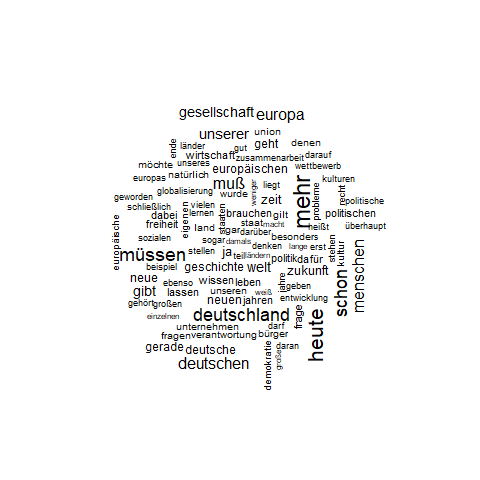
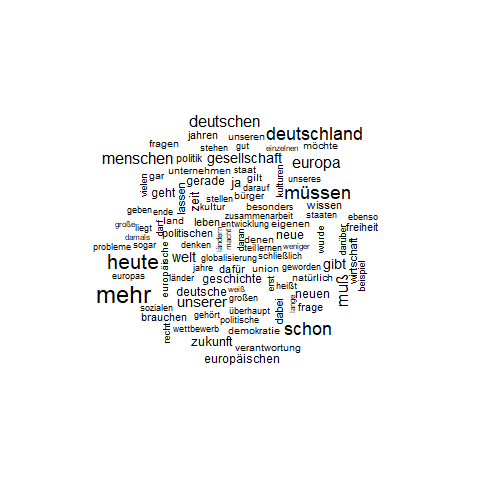
Uploading created pngs

Changed region(s): [[0.1875, 0.2188, 0.8125, 0.8125]]

diff --git a/Projects/neophilology/German_language.md b/Projects/neophilology/German_language.md
@@ -1,94 +1,32 @@
-```         
-#install.packages("Rtools")
-#install.packages("stopwords")
-#install.packages("wordcloud")
-#install.packages("tm")
-options(encoding="utf8")
-library('stats')
-library('tidyverse')
+    ## ── Attaching core tidyverse packages ──────────────────────── tidyverse 2.0.0 ──
+    ## ✔ dplyr     1.1.2     ✔ readr     2.1.4
+    ## ✔ forcats   1.0.0     ✔ stringr   1.5.0
+    ## ✔ ggplot2   3.4.2     ✔ tibble    3.2.1
+    ## ✔ lubridate 1.9.2     ✔ tidyr     1.3.0
+    ## ✔ purrr     1.0.1     
+    ## ── Conflicts ────────────────────────────────────────── tidyverse_conflicts() ──
+    ## ✖ dplyr::filter() masks stats::filter()
+    ## ✖ dplyr::lag()    masks stats::lag()
+    ## ℹ Use the conflicted package (<http://conflicted.r-lib.org/>) to force all conflicts to become errors
 
-## ── Attaching core tidyverse packages ──────────────────────── tidyverse 2.0.0 ──
-## ✔ dplyr     1.1.2     ✔ readr     2.1.4
-## ✔ forcats   1.0.0     ✔ stringr   1.5.0
-## ✔ ggplot2   3.4.2     ✔ tibble    3.2.1
-## ✔ lubridate 1.9.2     ✔ tidyr     1.3.0
-## ✔ purrr     1.0.1     
-## ── Conflicts ────────────────────────────────────────── tidyverse_conflicts() ──
-## ✖ dplyr::filter() masks stats::filter()
-## ✖ dplyr::lag()    masks stats::lag()
-## ℹ Use the conflicted package (<http://conflicted.r-lib.org/>) to force all conflicts to become errors
-```
+First, the data is imported. Here, I can use a subset of data, which
+only includes the speeches of one german president, Roman Herzog.
 
-Using the predone .csv table, since I can't bring myself to do work that already has be done.
+A frequency diagram and a word cloud would be sufficient to paint a
+bird’s eye view of the topics discussed in the aggregated speeches
 
-Removing the noise: filtering out stopwords and words and characters without content
+After tidying the data, to only include somewhat relevant words, a
+wordcloud is created. here, the words are arranged to fit smuggly
+together, while the size should reflect their frequency
 
-```         
-library("stopwords")
-stopwords_de<-c(stopwords::stopwords("de", source = "marimo"),stopwords::stopwords("de", source = "snowball")) %>% unique()
+    ## Lade nötiges Paket: RColorBrewer
 
-#set all words to lowercase to not have duplicates because of the word sometimes appearing at the start of the sentence
-speech_herzog[,1]<-lapply(speech_herzog[,1],str_to_lower)
+    ## png 
+    ##   2
 
-#remove punctuation from the set of words
-Punctuation_pos<-!lapply(speech_herzog[,1],str_detect,pattern="[[:punct:]]") %>% data.frame()
-#Remove all 231 stopwords given in the snowball list
-Stopwords_pos<-!lapply(speech_herzog[,1], '%in%', table=stopwords_de) %>% data.frame()
-Include_pos<-apply(cbind(Punctuation_pos,Stopwords_pos), 1L,all)
-
-words_freq<-speech_herzog[Include_pos,1] %>% table() %>% data.frame()
-colnames(words_freq)<-c("words","freq")
-```
-
-A frequency diagram and a word cloud would be sufficient to paint a bird's eye view of the topics discussed in the aggregated speeches
-
-plotting a wordcloud
-
-```         
-library("wordcloud")
-
-## Lade nötiges Paket: RColorBrewer
-
-wordcloud(words_freq$words,words_freq$freq, max.words = 100,scale=c(2, .5))
-```
-
-![](German_language_files/figure-markdown_strict/unnamed-chunk-3-1.png)
-
-A frequency Diagramm:
-
-```         
-top_50<-words_freq %>% arrange(desc(freq)) %>% head(50)
-top_50$pos<-0
-top_50$freq<-top_50$freq*1.1
-
-top_freq<-max(top_50$freq)
-
-sum<-0
-add_offset<-0
-for (i in 1:50){
-  sum<-sum+0.17*top_50$freq[i]/str_length(top_50$words[i])+add_offset
-  top_50$pos[i]<-sum
-  #add_offset<-min(200/str_length(top_50$words[i])**2.4,top_freq/10)
-  add_offset<-max(min(top_freq/(4.65*(str_length(top_50$words[i])**2.4)),top_freq/28),top_freq/156)
-
-}
-
-largest_val<-max(top_50$pos)
-smallest_val<-min(top_50$pos)
-#color_fd<-rep(c("darkblue","grey5"),25)
-color_fd<-rep(c("red2","purple2","blue","green4","gold2"),10)
-
-ggplot(top_50, aes(y=freq, x=pos))+
-  #geom_point(show.legend = FALSE,color = color_fd,aes( size=freq*0.005))+
-  theme_classic()+
-  theme(plot.title=element_text(size=24),axis.text=element_text(size=16),axis.text.x=element_blank(),axis.ticks.x=element_blank(),axis.title=element_text(size=14,face="bold"))+
-geom_text(show.legend = FALSE,aes(label=words, angle=90,family="mono",  hjust="top", vjust="middle"), color = color_fd, size=945/max(top_50$freq)*0.125*top_50$freq/str_length(top_50$words))+
-labs(x="words", y="frequencies",title="Word frequencies", caption="Frequency of non-filler words used in the speeches of Roman Herzog between 1994 and 1999")+
-coord_fixed(ratio=0.31,ylim=c(0,top_freq),xlim=c(smallest_val,largest_val))
-```
+The frequency diagram started off as a simple barplot, but while
+adjusting the labels of the words, this seemed to boring, and the words
+were hard to read. They still are, kind of, but now it looks *way more*
+interesting.
 
 ![](German_language_files/figure-markdown_strict/unnamed-chunk-4-1.png)
-
-Improving the result to show relevant information
-
-Note that the `echo = FALSE` parameter was added to the code chunk to prevent printing of the R code that generated the plot.
